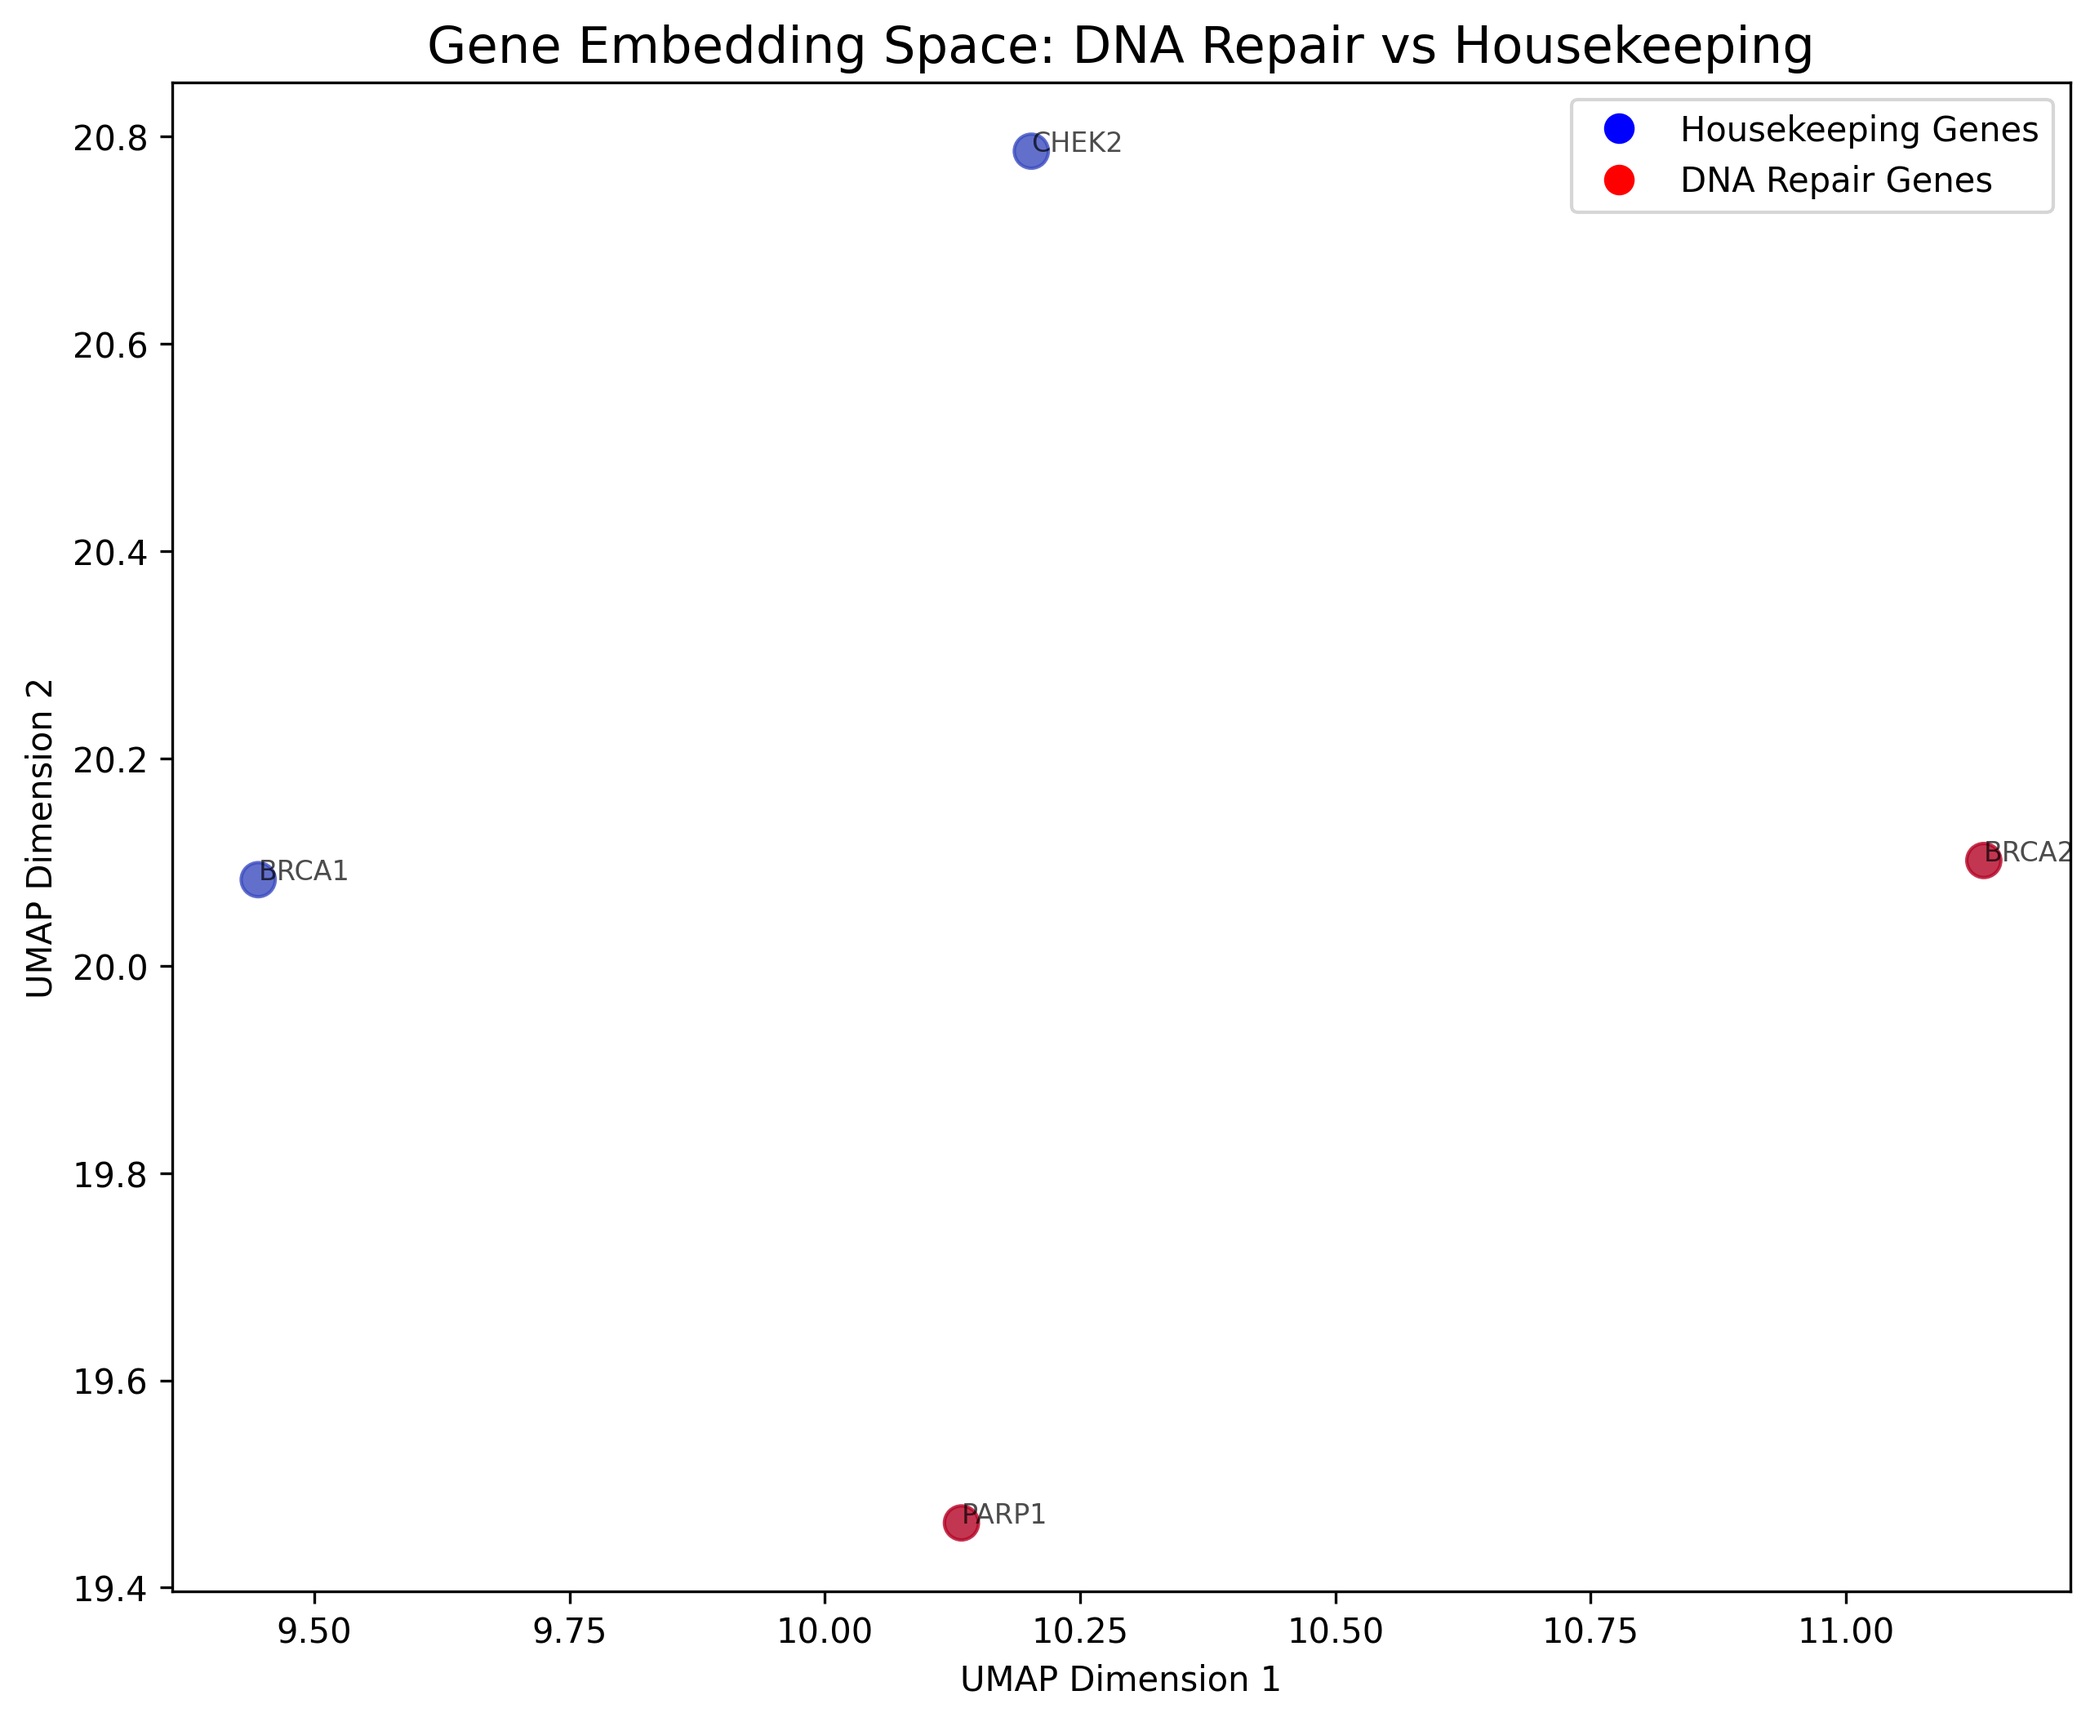
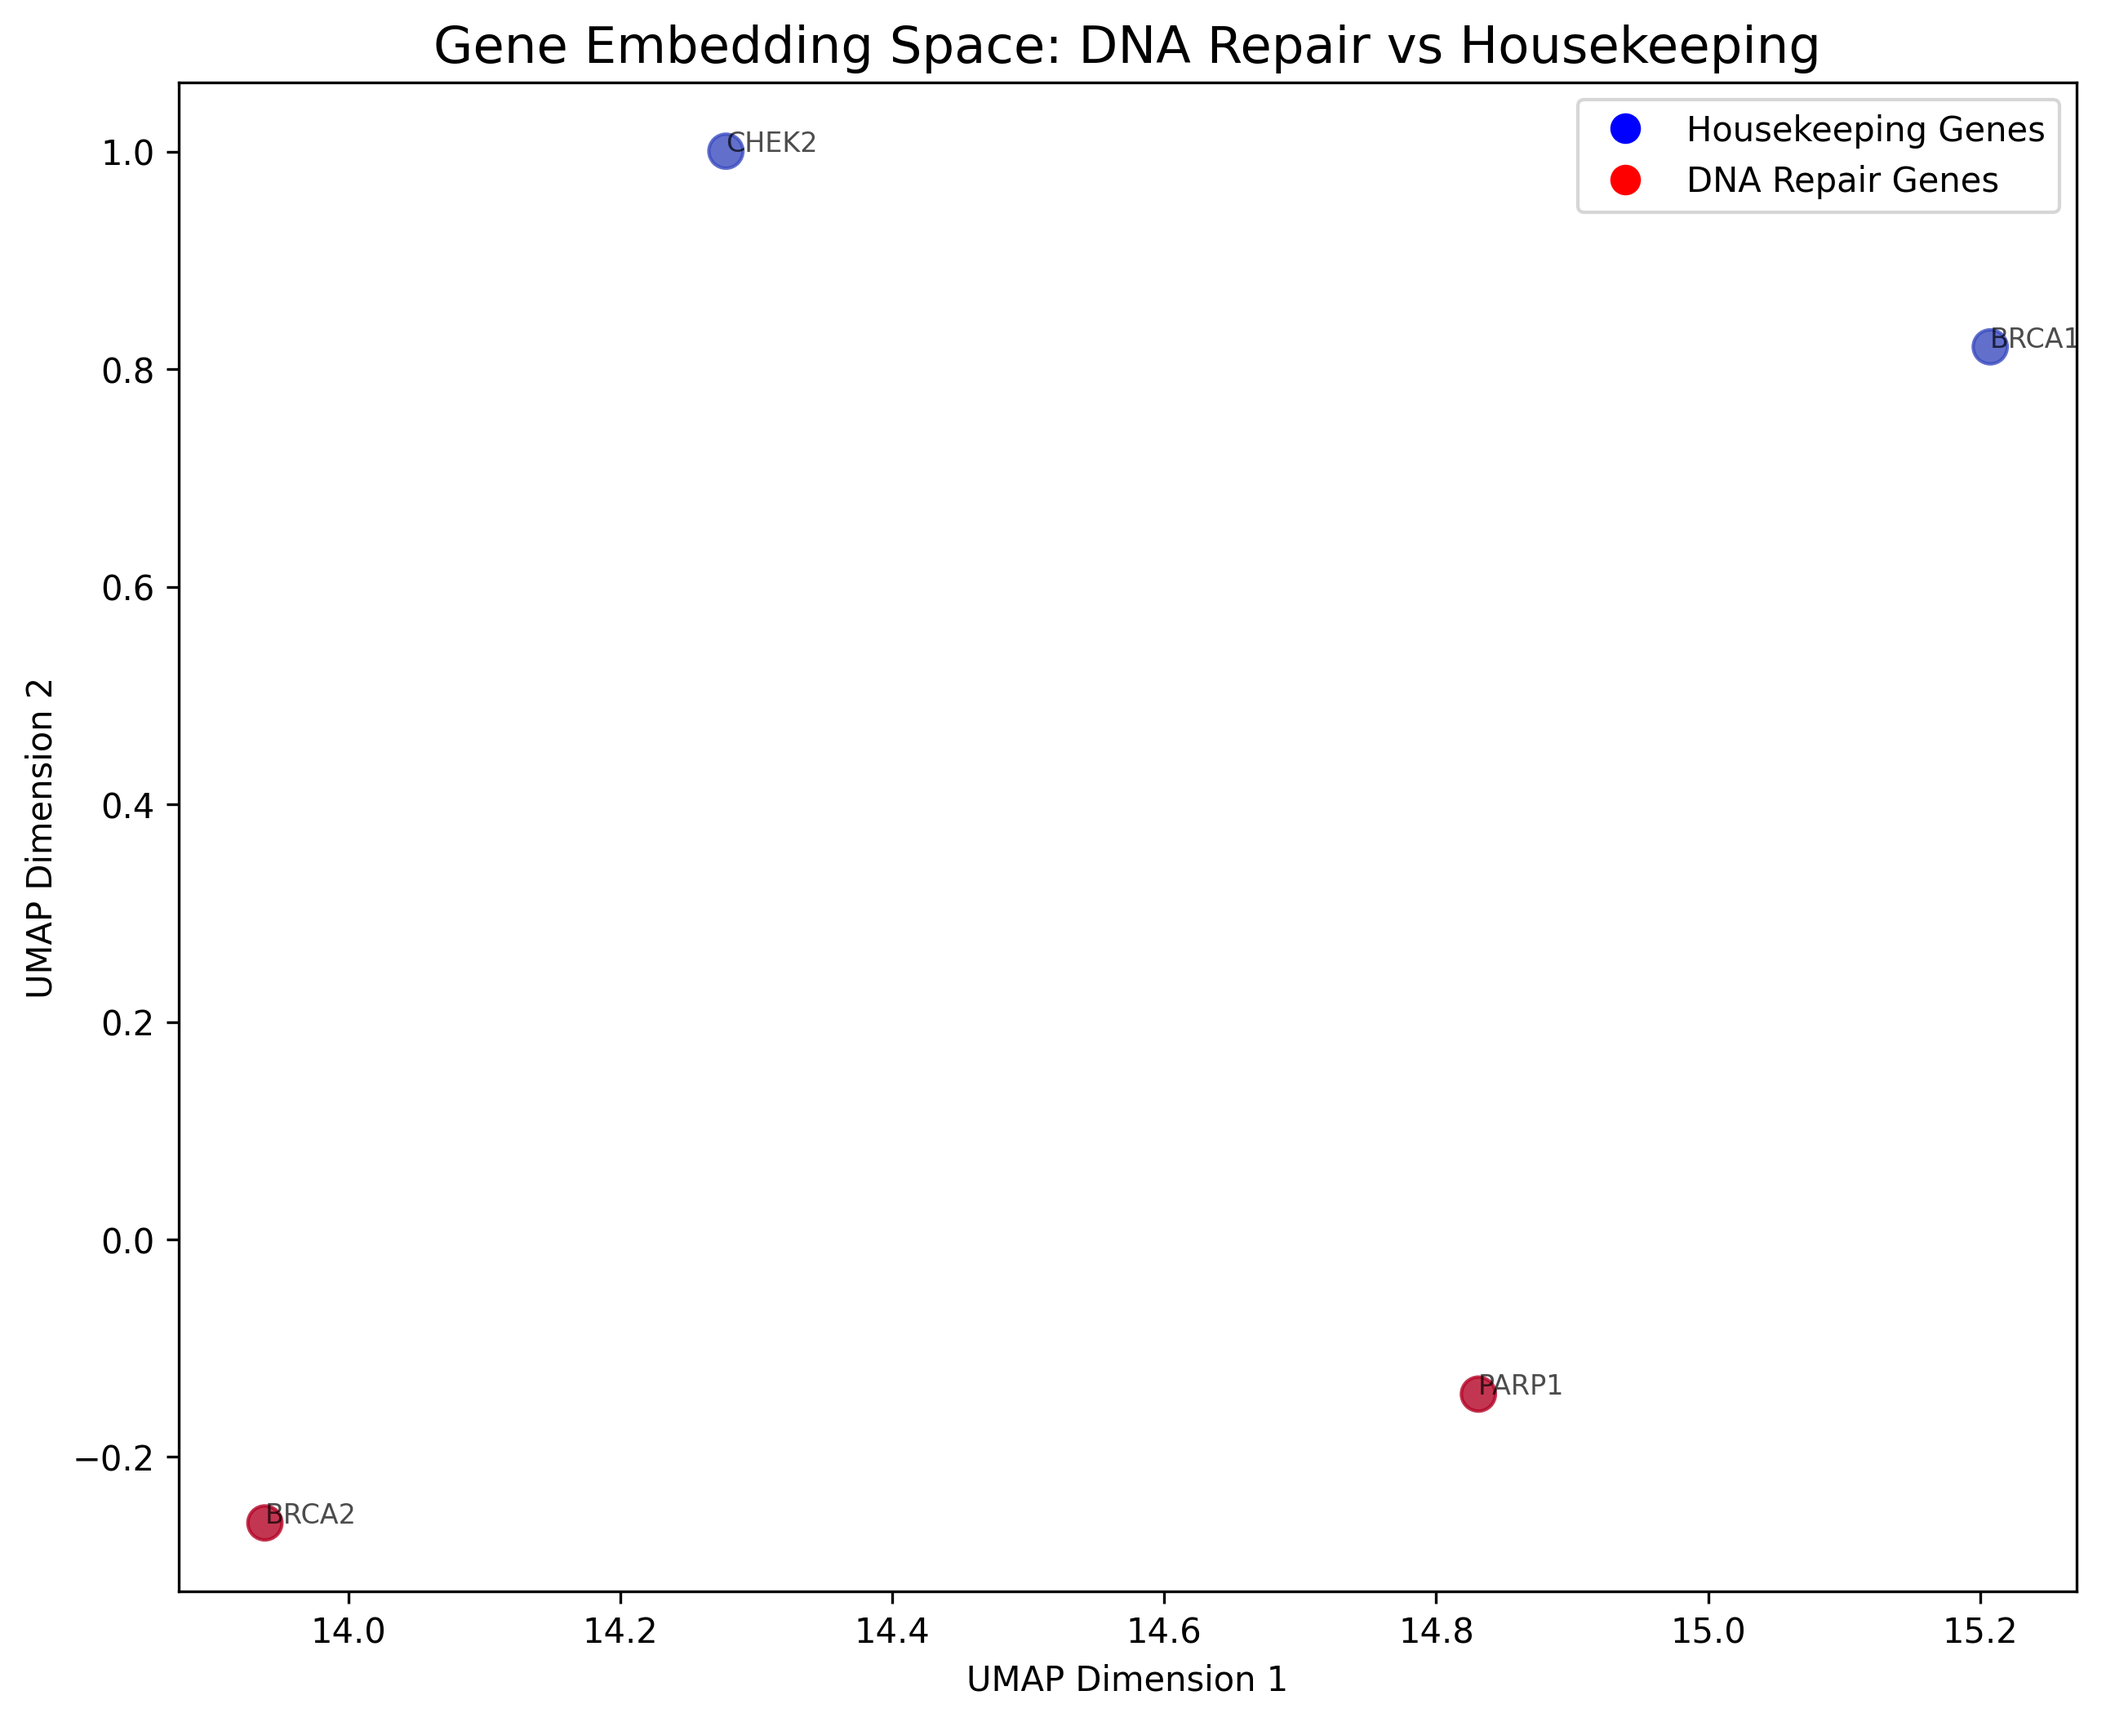
hybrid loss

diff --git a/gene_pathway_ai/src/train.py b/gene_pathway_ai/src/train.py
@@ -1,6 +1,9 @@
 import argparse
 import csv
 import os
+import sys
+# add the project root (one level up) to sys.path
+sys.path.insert(0, os.path.join(os.path.dirname(__file__), '..'))
 from typing import Dict, List, Tuple
 import glob
 import torch
@@ -17,6 +20,7 @@ from data_loader import load_gene_sequences, load_pathway_graph, load_genes_from
 from model import FusionModel
 from utils import seq_to_onehot, check_cuda
 from visualize import visualize_latent_space
+from losses import HybridLoss
 
 def prepare_data(pos_dir: str, neg_dir: str, pathway_file: str = None, preloaded_pathway_data = None) -> Tuple[DataLoader, DataLoader, torch.Tensor, List[str]]:
     device = torch.device("cuda" if torch.cuda.is_available() else "cpu")
@@ -106,28 +110,19 @@ def prepare_data(pos_dir: str, neg_dir: str, pathway_file: str = None, preloaded
 def train_one_epoch(model, train_loader, optimizer, criterion, scaler, device, pathway_data, accumulation_steps):
     model.train()
     optimizer.zero_grad()
-    step = 0
     total_loss = 0.0
     
     for i, (genes, labels) in enumerate(train_loader):
         genes, labels = genes.to(device), labels.to(device)
         with autocast():
-            predictions, _ = model(genes, pathway_data)  
-            loss = criterion(predictions, labels)
-            loss = loss / accumulation_steps
-
+            predictions, _, latent = model(genes, pathway_data)
+            loss = criterion(predictions, labels, latent)
+        loss.backward()
+        optimizer.step()
+        optimizer.zero_grad()
         total_loss += loss.item() * genes.size(0)
         
-        scaler.scale(loss).backward()
-
-        if (i + 1) % accumulation_steps == 0:
-            scaler.step(optimizer)
-            scaler.update()
-            optimizer.zero_grad()
-        step += 1
-
-    avg_loss = total_loss / len(train_loader.dataset) if len(train_loader.dataset) > 0 else 0
-    return avg_loss
+    return total_loss / len(train_loader.dataset)
 
 def evaluate(model, val_loader, device, pathway_data, criterion):
     model.eval()
@@ -136,11 +131,10 @@ def evaluate(model, val_loader, device, pathway_data, criterion):
 
     with torch.no_grad():
         for genes, labels in val_loader:
-            genes = genes.to(device)
-            labels = labels.to(device)
-            
-            predictions, _ = model(genes, pathway_data)  
-            loss = criterion(predictions, labels)
+            genes, labels = genes.to(device), labels.to(device)
+            # Unpack three outputs: predictions, attention weights, and latent features
+            predictions, _, latent = model(genes, pathway_data)
+            loss = criterion(predictions, labels, latent)
             total_loss += loss.item() * genes.size(0)
             
             predicted = (torch.sigmoid(predictions) > 0.5).cpu().numpy()
@@ -254,8 +248,7 @@ def main(args: Dict, preloaded_pathway_data=None) -> None:
     print(f"Model initialized with sequence length {seq_len} and {pathway_feat_dim} pathway features")
     optimizer = optim.AdamW(model.parameters(), lr=2e-5)
     scaler = GradScaler()
-    pos_weight = None
-    criterion = torch.nn.BCEWithLogitsLoss(pos_weight=pos_weight)
+    criterion = HybridLoss()
     
     with open("results/training_log.csv", "w", newline="", encoding="utf-8") as f:
         writer = csv.writer(f)

diff --git a/gene_pathway_ai/src/losses.py b/gene_pathway_ai/src/losses.py
@@ -1,0 +1,61 @@
+import torch
+import torch.nn as nn
+import torch.nn.functional as F
+
+class HybridLoss(nn.Module):
+    def __init__(self, alpha: float = 0.25, gamma: float = 2.0, margin: float = 1.0,
+                 weight_focal: float = 0.7, weight_contrastive: float = 0.3):
+        """
+        alpha: balancing factor for positive class in focal loss
+        gamma: focusing parameter in focal loss
+        margin: distance margin for contrastive loss
+        weight_focal: weight for focal loss component
+        weight_contrastive: weight for contrastive loss component
+        """
+        super(HybridLoss, self).__init__()
+        self.alpha = alpha
+        self.gamma = gamma
+        self.margin = margin
+        self.w_focal = weight_focal
+        self.w_contrastive = weight_contrastive
+
+    def focal_loss(self, logits, targets):
+        """
+        Computes focal loss for binary classification.
+        logits: raw model predictions (before sigmoid), shape [batch, 1]
+        targets: ground-truth labels (0/1), shape [batch, 1]
+        """
+        probs = torch.sigmoid(logits)
+        ce_loss = F.binary_cross_entropy_with_logits(logits, targets, reduction='none')
+        p_t = probs * targets + (1 - probs) * (1 - targets)
+        focal_term = (1 - p_t) ** self.gamma
+        # Weight positive examples by alpha and negatives by (1-alpha)
+        alpha_factor = targets * self.alpha + (1 - targets) * (1 - self.alpha)
+        loss = alpha_factor * focal_term * ce_loss
+        return loss.mean()
+
+    def contrastive_loss(self, features, targets):
+        """
+        Computes contrastive loss on latent features.
+        features: fused latent features with shape [batch, d]
+        targets: ground-truth labels with shape [batch, 1] or [batch]
+        For pairs with the same target, loss = d^2.
+        For pairs with different targets, loss = max(0, margin - d)^2
+        """
+        if targets.dim() > 1:
+            targets = targets.view(-1)
+        # Compute pairwise Euclidean distances
+        distances = torch.cdist(features, features, p=2)  # [batch, batch]
+        targets = targets.unsqueeze(1)  # [batch, 1]
+        mask_same = (targets == targets.t()).float()
+        mask_diff = 1 - mask_same
+        loss_same = mask_same * (distances ** 2)
+        loss_diff = mask_diff * torch.clamp(self.margin - distances, min=0) ** 2
+        # Average over all pairs (symmetric)
+        loss = (loss_same + loss_diff).mean()
+        return loss
+
+    def forward(self, logits, targets, latent_features):
+        lf = self.focal_loss(logits, targets)
+        lc = self.contrastive_loss(latent_features, targets)
+        return self.w_focal * lf + self.w_contrastive * lc

diff --git a/gene_pathway_ai/src/model.py b/gene_pathway_ai/src/model.py
@@ -130,18 +130,17 @@ class FusionModel(nn.Module):
         layers.append(nn.Linear(dims[-1], output_dim))
         self.mlp = nn.Sequential(*layers)
     
-    def forward(self, gene_seq: torch.Tensor, pathway_data) -> Tuple[torch.Tensor, torch.Tensor]:
-        gene_embedding = self.gene_enc(gene_seq)  
+    def forward(self, gene_seq: torch.Tensor, pathway_data) -> Tuple[torch.Tensor, torch.Tensor, torch.Tensor]:
+        gene_embedding = self.gene_enc(gene_seq)  # e.g., [batch, gene_dim]
         if gene_embedding.dim() > 2:
             gene_embedding = gene_embedding.mean(dim=1)
-        pathway_nodes = self.pathway_enc(pathway_data, return_node_features=True)  
+        pathway_nodes = self.pathway_enc(pathway_data, return_node_features=True)  # [num_nodes, pathway_dim]
         cross_output, attn_weights = self.cross_attn(gene_embedding, pathway_nodes)
         if cross_output.dim() > 2:
             cross_output = cross_output.mean(dim=1)
-            
-        combined = torch.cat([gene_embedding, cross_output], dim=1) 
+        combined = torch.cat([gene_embedding, cross_output], dim=1)  # [batch, 2*gene_dim]
         output = self.mlp(combined)
-        return output, attn_weights
+        return output, attn_weights, combined
 
 
 def tokenize_dna_sequences(sequences: list, max_length: int = 512) -> torch.Tensor:
